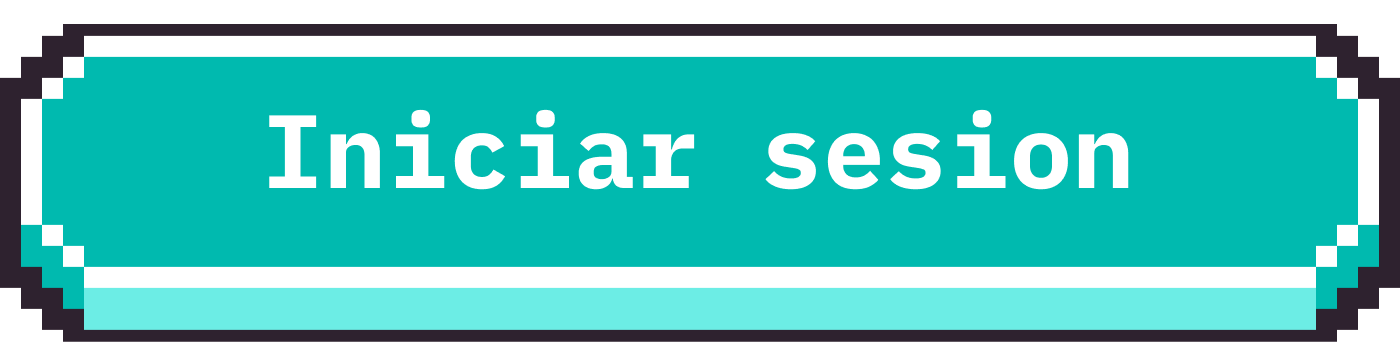
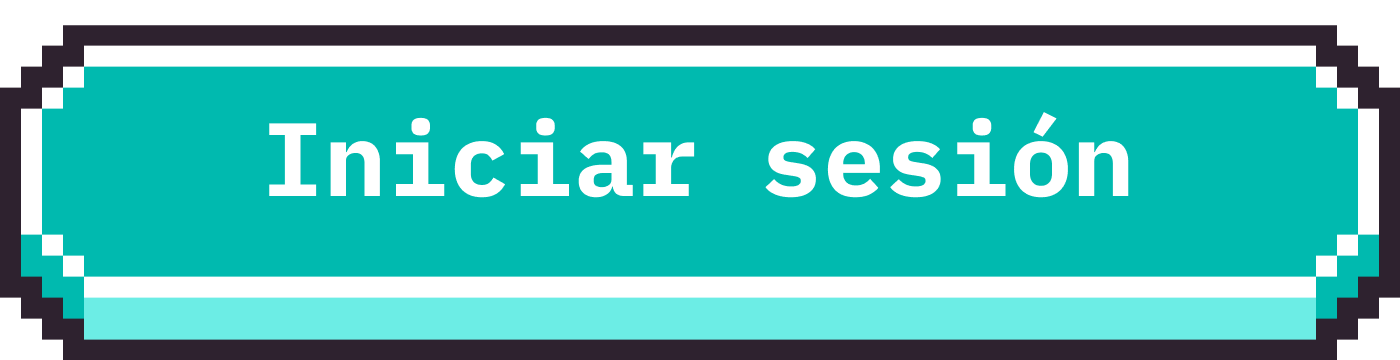
anexo version adaptable - mejora en el estilo

diff --git a/lib/ui/pages/screen_home/home_mobile.dart b/lib/ui/pages/screen_home/home_mobile.dart
@@ -21,7 +21,7 @@ class _HomeMobileState extends State<HomeMobile> {
         children: [
           // Imagen de fondo
           Image.asset(
-            'assets/home.png',
+            'assets/FondoHome.png',
             fit: BoxFit.cover,
             width: double.infinity,
             height: double.infinity,
@@ -35,7 +35,7 @@ class _HomeMobileState extends State<HomeMobile> {
                 Align(
                   alignment: Alignment.topRight,
                   child: Container(
-                    width: 300,
+                    width: 200,
                     height: 100,
                     margin: EdgeInsets.symmetric(horizontal: 10),
                     child: PixelLargeBttn(
@@ -47,15 +47,58 @@ class _HomeMobileState extends State<HomeMobile> {
                   ),
                 ),
 
-                // Imagen desde los assets
+                //titulo
+                const Align(
+                    alignment: Alignment.topCenter,
+                    child: Text('Mundo PC',
+                        style: TextStyle(
+                          color: Colors.white,
+                          fontSize: 70,
+                          fontWeight: FontWeight.bold,
+                        ))),
+
+                const SizedBox(height: 40),
+
                 Padding(
-                  padding: const EdgeInsets.all(0),
-                  child: Image.asset(
-                    'assets/items/mascota_dialogo.png',
-                    width: 600,
-                    height: 400,
-                  ),
-                ),
+                    padding: const EdgeInsets.all(0),
+                    child: Center(
+                        child: FractionallySizedBox(
+                      widthFactor: 0.8,
+                      child: Padding(
+                          padding: const EdgeInsets.all(10),
+                          child: Container(
+                              decoration: BoxDecoration(
+                                color: Colors.white,
+                                borderRadius: BorderRadius.circular(20),
+                              ),
+                              child: const Padding(
+                                  padding: EdgeInsets.all(8.0),
+                                  child: SelectableText(
+                                    "Nos emociona tenerte a bordo en este emocionante viaje hacia el mundo del pensamiento computacional. Mundo PC es más que una plataforma; somos un puente entre la innovación, la creatividad y la enseñanza.",
+                                    style: TextStyle(
+                                      fontSize: 18,
+                                      fontWeight: FontWeight.w400,
+                                      color: Colors.black,
+                                    ),
+                                    textAlign: TextAlign.justify,
+                                  )))),
+                    ))),
+                Padding(
+                    padding: const EdgeInsets.all(0),
+                    child: Center(
+                        child: FractionallySizedBox(
+                      widthFactor: 0.5,
+                      child: Padding(
+                        padding: const EdgeInsets.all(0),
+                        child: Image.asset(
+                          'assets/items/perico_mascota.png',
+                          width: 400,
+                          height: 200,
+                        ),
+                      ),
+                    ))),
+
+                const SizedBox(height: 30),
                 // Barra de búsqueda redondeada
                 Padding(
                   padding: const EdgeInsets.all(0),
@@ -95,7 +138,7 @@ class _HomeMobileState extends State<HomeMobile> {
                   padding: const EdgeInsets.all(0),
                   child: Center(
                       child: FractionallySizedBox(
-                    widthFactor: 0.5,
+                    widthFactor: 0.8,
                     child: FutureBuilder<List<Curso>>(
                       future: cursosCasoUso.getCursos(),
                       builder: (context, snapshot) {
@@ -109,30 +152,19 @@ class _HomeMobileState extends State<HomeMobile> {
                           return const Text('No hay cursos disponibles');
                         } else {
                           // Mostrar la lista de cursos utilizando snapshot.data
-                          return ListView(
+                          return ListView.builder(
                             shrinkWrap: true,
                             physics: const NeverScrollableScrollPhysics(),
-                            children: [
-                              GridView.builder(
-                                shrinkWrap: true,
-                                gridDelegate:
-                                    const SliverGridDelegateWithMaxCrossAxisExtent(
-                                  maxCrossAxisExtent:
-                                      300, // Tamaño máximo de cada card
-                                  crossAxisSpacing: 10,
-                                  mainAxisSpacing: 10,
-                                  childAspectRatio:
-                                      1, // Relación de aspecto para mantener cuadradas las cards
+                            itemCount: snapshot.data!.length,
+                            itemBuilder: (BuildContext context, int index) {
+                              return Padding(
+                                padding: const EdgeInsets.all(8.0),
+                                child: CursoCard(
+                                  curso: snapshot.data![
+                                      index], // Convertir el objeto Curso a un mapa
                                 ),
-                                itemCount: snapshot.data!.length,
-                                itemBuilder: (BuildContext context, int index) {
-                                  return CursoCard(
-                                    curso: snapshot.data![
-                                        index], // Convertir el objeto Curso a un mapa
-                                  );
-                                },
-                              ),
-                            ],
+                              );
+                            },
                           );
                         }
                       },

diff --git a/lib/ui/pages/screen_home/home_web.dart b/lib/ui/pages/screen_home/home_web.dart
@@ -19,13 +19,14 @@ class _HomeWebState extends State<HomeWeb> {
   @override
   Widget build(BuildContext context) {
     //implementar caso de uso de cursos
+    print("carga scaffold");
 
     return Scaffold(
       body: Stack(
         children: [
           // Imagen de fondo
           Image.asset(
-            'assets/home.png',
+            'assets/FondoHome.png',
             fit: BoxFit.cover,
             width: double.infinity,
             height: double.infinity,
@@ -51,21 +52,67 @@ class _HomeWebState extends State<HomeWeb> {
                   ),
                 ),
 
-                // Imagen desde los assets
+                //titulo
+                const Align(
+                    alignment: Alignment.topCenter,
+                    child: Text('Mundo PC',
+                        style: TextStyle(
+                          color: Colors.white,
+                          fontSize: 70,
+                          fontWeight: FontWeight.bold,
+                        ))),
+
+                const SizedBox(height: 40),
+
                 Padding(
                   padding: const EdgeInsets.all(0),
-                  child: Image.asset(
-                    'assets/items/mascota_dialogo.png',
-                    width: 600,
-                    height: 400,
+                  child: Center(
+                    child: FractionallySizedBox(
+                        widthFactor: 0.6,
+                        child: Row(
+                          children: [
+                            Expanded(
+                              child: Padding(
+                                padding: const EdgeInsets.all(0),
+                                child: Image.asset(
+                                  'assets/items/perico_mascota.png',
+                                  width: 400,
+                                  height: 200,
+                                ),
+                              ),
+                            ),
+                            Expanded(
+                              flex: 1,
+                              child: Padding(
+                                  padding: const EdgeInsets.all(10),
+                                  child: Container(
+                                      decoration: BoxDecoration(
+                                        color: Colors.white,
+                                        borderRadius: BorderRadius.circular(20),
+                                      ),
+                                      child: const Padding(
+                                          padding: EdgeInsets.all(8.0),
+                                          child: SelectableText(
+                                            "Nos emociona tenerte a bordo en este emocionante viaje hacia el mundo del pensamiento computacional. Mundo PC es más que una plataforma; somos un puente entre la innovación, la creatividad y la enseñanza.",
+                                            style: TextStyle(
+                                              fontSize: 18,
+                                              fontWeight: FontWeight.w400,
+                                              color: Colors.black,
+                                            ),
+                                            textAlign: TextAlign.justify,
+                                          )))),
+                            ),
+                          ],
+                        )),
                   ),
                 ),
+                const SizedBox(height: 30),
                 // Barra de búsqueda redondeada
                 Padding(
                   padding: const EdgeInsets.all(0),
                   child: Center(
                     child: FractionallySizedBox(
-                      widthFactor: 0.5,
+                      widthFactor: 0.6,
                       child: Container(
                         decoration: BoxDecoration(
                           color: Colors.white,
@@ -98,7 +145,7 @@ class _HomeWebState extends State<HomeWeb> {
                   padding: const EdgeInsets.all(0),
                   child: Center(
                       child: FractionallySizedBox(
-                    widthFactor: 0.5,
+                    widthFactor: 0.6,
                     child: FutureBuilder<List<Curso>>(
                       future: cursosCasoUso.getCursos(),
                       builder: (context, snapshot) {

diff --git a/lib/infraestructure/driven_adapter/cursos_adapter/cursos_data_adapter.dart b/lib/infraestructure/driven_adapter/cursos_adapter/cursos_data_adapter.dart
@@ -72,11 +72,11 @@ class CursosDataAdapter extends CursoRepository {
       departamento: 'Departamento 5',
       ciudad: 'Ciudad 5',
       colegio: 'Colegio 5',
-      profesor: 'Profesor 5',
+      profesor: 'Profesor de la institucion educativa',
       portada: 'assets/Inicio.png',
       estado: 'Activo',
       numEstudiantes: 10,
-      descripcion: "Descripción 5",
+      descripcion: "Descripción una muy larga descripcion",
       fechaCreacion: '2022-01-01',
       fechaFinalizacion: '2022-01-01',
     );

diff --git a/lib/main.dart b/lib/main.dart
@@ -35,7 +35,7 @@ class MyApp extends StatelessWidget {
       title: "Codex",
       theme: ThemeData(
         scaffoldBackgroundColor: sixtyColor,
-        textTheme: GoogleFonts.poppinsTextTheme(Theme.of(context).textTheme)
+        textTheme: GoogleFonts.ibmPlexMonoTextTheme(Theme.of(context).textTheme)
             .apply(bodyColor: Colors.black),
         pageTransitionsTheme: const PageTransitionsTheme(builders: {
           TargetPlatform.iOS: FadeUpwardsPageTransitionsBuilder(),

diff --git a/lib/ui/components/cards/curso_cards.dart b/lib/ui/components/cards/curso_cards.dart
@@ -9,6 +9,7 @@ class CursoCard extends StatelessWidget {
   @override
   Widget build(BuildContext context) {
     return Card(
+      elevation: 5,
       // estilo de la card con bordes redondos
       shape: RoundedRectangleBorder(
         borderRadius: BorderRadius.circular(10.0),
